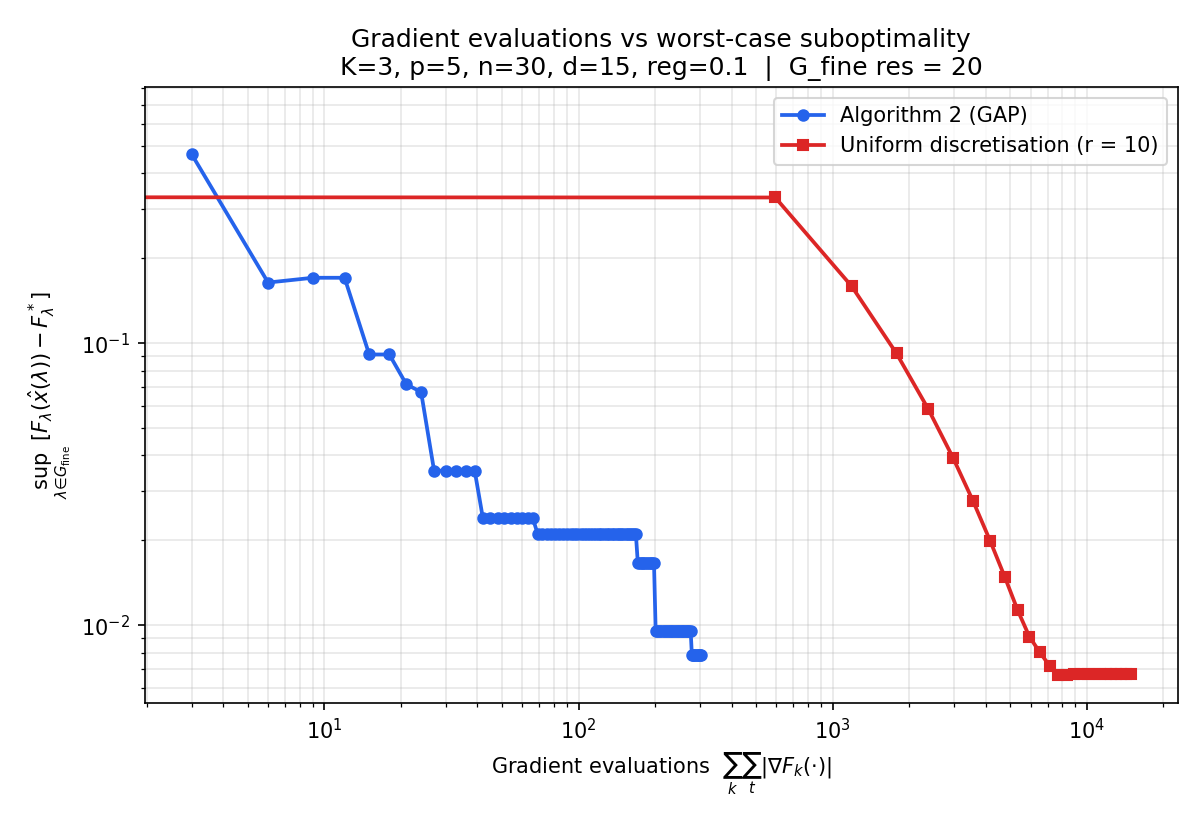
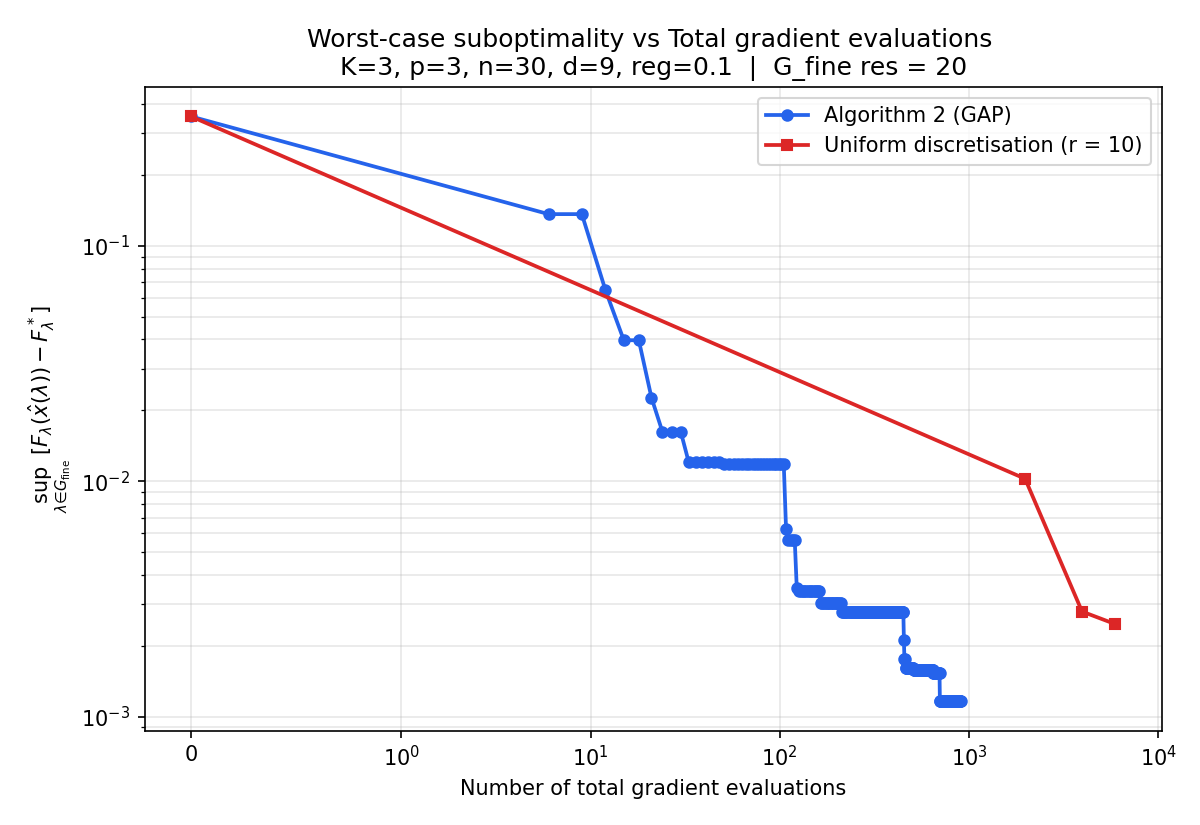
Add files via upload

diff --git a/experiments.py b/experiments.py
@@ -137,23 +137,29 @@ def _plot_grads_vs_accuracy(
     """
     fig, ax = plt.subplots(figsize=(8, 5.5))
 
-    ax.loglog(
+    ax.plot(
         a2["grad_evals_history"], a2["worst_errs"],
         "o-", color="#2563eb", markersize=5, linewidth=1.8,
         label=f"Algorithm 2 ({pc_label})",
     )
-    ax.loglog(
+    ax.plot(
         bl["grad_evals_history"], bl["worst_errs"],
         "s-", color="#dc2626", markersize=5, linewidth=1.8,
         label=f"Uniform discretisation (r = {coarse_resolution})",
     )
 
-    ax.set_xlabel("Gradient evaluations  $\\sum_k \\sum_t |\\nabla F_k(\\cdot)|$")
+    # Use a symlog x-axis so the shared initial point at grad_evals = 0
+    # is plotted (a true log axis cannot represent zero).  Linear region
+    # extends out to linthresh = 1, logarithmic beyond.
+    ax.set_xscale("symlog", linthresh=1.0)
+    ax.set_yscale("log")
+
+    ax.set_xlabel("Number of total gradient evaluations")
     ax.set_ylabel(r"$\sup_{\lambda \in G_{\mathrm{fine}}}\,"
                   r"[F_\lambda(\hat x(\lambda)) - F_\lambda^*]$")
     params_str = _format_params(problem_params)
     ax.set_title(
-        f"Gradient evaluations vs worst-case suboptimality\n"
+        f"Worst-case suboptimality vs Total gradient evaluations \n"
         f"{params_str}  |  G_fine res = {fine_resolution}"
     )
     ax.legend()
@@ -222,10 +228,10 @@ def experiment_logreg_gap(
     verbose: bool = True,
     coarse_resolution: int = 10,
     fine_resolution: int = 20,
-    n_passes: int = 25,
-    steps_per_point_per_pass: int = 3,
-    max_outer: int = 100,
-    max_inner: int = 20,
+    n_passes: int = 3,
+    steps_per_point_per_pass: int = 10,
+    max_outer: int = 300,
+    max_inner: int = 5,
     eval_every_n_grads: int = 1,
     plot_path_cpu: str = "logreg_cpu_vs_accuracy.png",
     plot_path_grads: str = "logreg_grads_vs_accuracy.png",
@@ -257,7 +263,7 @@ def experiment_logreg_gap(
           "vs worst-case err")
     print("=" * 65)
 
-    K, p, n, reg = 3, 5, 30, 0.1
+    K, p, n, reg = 3, 3, 30, 0.1
     d = K * p
     objs, grads, L, mu = make_logreg_strongly_convex(
         K=K, p=p, n=n, reg=reg, seed=43,
@@ -799,5 +805,5 @@ if __name__ == "__main__":
     print("✓ Experiment 1 completed.")
     #res2 = experiment_logreg_separable_gaussian()
     #print("✓ Experiment 2 (separable Gaussian mixture, UB) completed.")
-    res3 = experiment_mlp_gn()
-    print("✓ Experiment 3 completed.")
+    #res3 = experiment_mlp_gn()
+    #print("✓ Experiment 3 completed.")

diff --git a/algorithm.py b/algorithm.py
@@ -409,8 +409,28 @@ def algorithm2_progressive(
         except Exception:
             return -1
 
-    # Checkpoint 0:  bundle has one point (the initial iterate).
-    _checkpoint(f"outer 0/{max_outer}")
+    # Checkpoint 0:  report the worst-case error of the constant map x̂(λ) ≡ x_0.
+    # This matches the baseline's checkpoint 0 (which also reports the constant
+    # map at x_0) so both algorithms agree on the "initial" worst-case error
+    # before any algorithmic work has been done.  The K gradient evaluations
+    # spent on bundle.add_point(x_0, ...) at the top of this routine will be
+    # accounted for at checkpoint 1 alongside the work of the first outer
+    # iteration, keeping the cumulative grad_evals count correct from then on.
+    fine_grid = reference_map["fine_grid"]
+    F_star = reference_map["F_star"]
+    err0 = -np.inf
+    for i, lam in enumerate(fine_grid):
+        F_lam_x0 = sum(lam[k] * objectives[k](x0) for k in range(K))
+        err = F_lam_x0 - F_star[i]
+        if err > err0:
+            err0 = float(err)
+    cpu_times.append(time.time() - t_start)
+    worst_errs.append(err0)
+    outer_iters_history.append(0)
+    grad_evals_history.append(0)
+    if verbose:
+        print(f"  A2 outer 0/{max_outer} | t={cpu_times[-1]:.2f}s | grad_evals=0 "
+              f"| err={err0:.4e}  (constant map)")
 
 
     for t in range(max_outer):